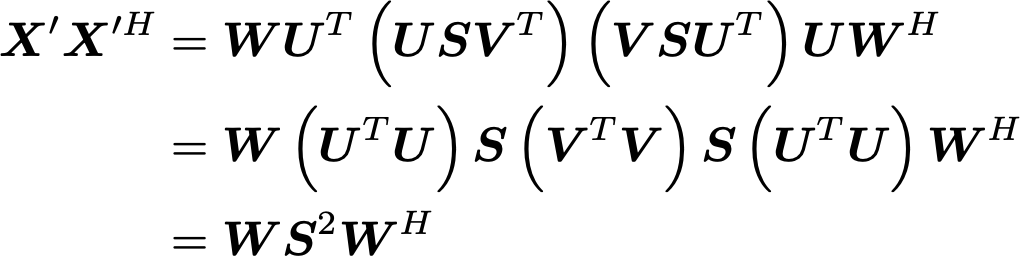
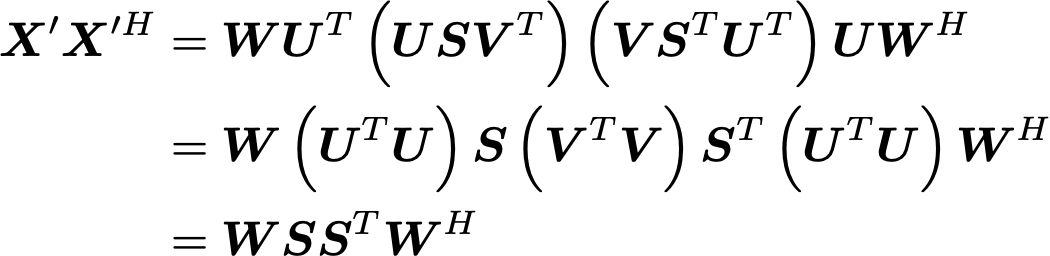
Fix equations.

diff --git a/equations/h-prime-circulant.tex b/equations/h-prime-circulant.tex
@@ -9,13 +9,13 @@
   \boldsymbol W \boldsymbol U^T \boldsymbol X \left(\boldsymbol X^T \boldsymbol X + \alpha^2 \boldsymbol I \right)^{-1}
    \boldsymbol X^T \boldsymbol U \boldsymbol W^H \\
   &= \boldsymbol W \boldsymbol S \boldsymbol V^T 
-\left( \boldsymbol V \boldsymbol S^2 \boldsymbol V^T + \alpha^2 \boldsymbol I \right)^{-1}
-\boldsymbol V \boldsymbol S \boldsymbol W^H \\
+\left( \boldsymbol V \boldsymbol S^T \boldsymbol S \boldsymbol V^T + \alpha^2 \boldsymbol I \right)^{-1}
+\boldsymbol V \boldsymbol S^T \boldsymbol W^H \\
 &= \boldsymbol W \boldsymbol S \boldsymbol V^T 
-\boldsymbol V \left( \boldsymbol S^2 + \alpha^2 \boldsymbol I \right)^{-1}
-\boldsymbol V^T \boldsymbol V\boldsymbol S \boldsymbol W^H \\
+\boldsymbol V \left( \boldsymbol S^T \boldsymbol S + \alpha^2 \boldsymbol I \right)^{-1}
+\boldsymbol V^T \boldsymbol V\boldsymbol S^T \boldsymbol W^H \\
 &= \boldsymbol W \boldsymbol S 
-\left( \boldsymbol S^2 + \alpha^2 \boldsymbol I \right)^{-1}
-\boldsymbol S \boldsymbol W^H \\
+\left( \boldsymbol S^T \boldsymbol S + \alpha^2 \boldsymbol I \right)^{-1}
+\boldsymbol S^T \boldsymbol W^H \\
 \end{split}\end{align*}
 \end{document}

diff --git a/equations/gcv-data-variance.tex b/equations/gcv-data-variance.tex
@@ -7,10 +7,10 @@
 \begin{align*}\begin{split}
 \boldsymbol X' \boldsymbol X'^H &= 
 \boldsymbol W \boldsymbol U^T \left( \boldsymbol U \boldsymbol S \boldsymbol V^T\right)
-\left( \boldsymbol V \boldsymbol S \boldsymbol U^T \right) \boldsymbol U \boldsymbol W^H \\
+\left( \boldsymbol V \boldsymbol S^T \boldsymbol U^T \right) \boldsymbol U \boldsymbol W^H \\
 &= \boldsymbol W \left( \boldsymbol U^T \boldsymbol U \right)
-\boldsymbol S \left(\boldsymbol V^T \boldsymbol V\right) \boldsymbol S
+\boldsymbol S \left(\boldsymbol V^T \boldsymbol V\right) \boldsymbol S^T
 \left( \boldsymbol U^T \boldsymbol U \right) \boldsymbol W^H \\
-&= \boldsymbol W \boldsymbol S^2 \boldsymbol W^H \\
+&= \boldsymbol W \boldsymbol S \boldsymbol S^T \boldsymbol W^H \\
 \end{split}\end{align*}
 \end{document}

diff --git a/equations/h-prime-circulant-inner-diagonal.tex b/equations/h-prime-circulant-inner-diagonal.tex
@@ -4,7 +4,8 @@
 \usepackage{amsmath} %maths
 \usepackage[utf8]{inputenc} %useful to type directly diacritic characters
 \begin{document}
-\begin{align*}\boldsymbol S 
-\left( \boldsymbol S^2 + \alpha^2 \boldsymbol I \right)^{-1} 
-\boldsymbol S\end{align*}
+\[\boldsymbol S 
+\left( \boldsymbol S^T \boldsymbol S + \alpha^2 \boldsymbol I \right)^{-1} 
+\boldsymbol S^T
+\]
 \end{document}
